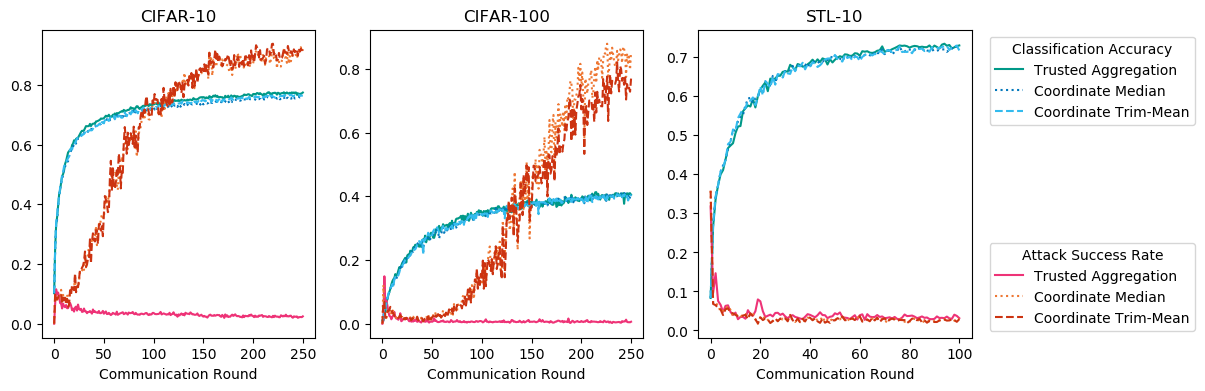
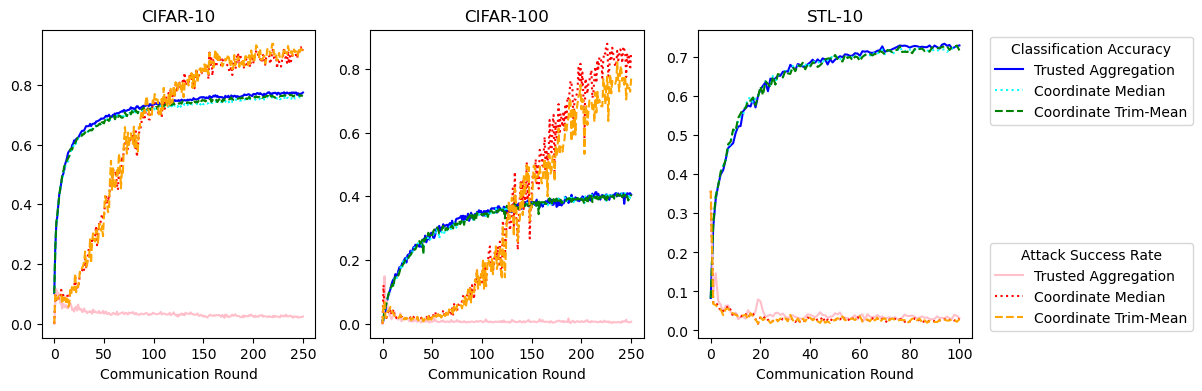
update visual colors to yao suggested

diff --git a/make_article/make_visuals/exp_accuracy_v2.py b/make_article/make_visuals/exp_accuracy_v2.py
@@ -61,6 +61,15 @@ def main():
     file_suffices = ('', f'--beta{args.beta}', '')
 
     line_styles = ['solid', 'dotted', 'dashed']
+    warm_colors = ['pink', 'red', 'orange']
+    cool_colors = ['blue', 'cyan', 'green']
+
+    """
+    # scale RGB between 0-1
+    for i, (wc, cc) in enumerate(zip(warm_colors, cool_colors)):
+        warm_colors[i] = [x / 255 for x in wc]
+        cool_colors[i] = [x / 255 for x in cc]
+
     warm_colors = [
         (238 / 255, 51 / 255, 119 / 255),
         (238 / 255, 119 / 255, 51 / 255),
@@ -71,6 +80,7 @@ def main():
         (0 / 255, 119 / 255, 187 / 255),
         (51 / 255, 187 / 255, 238 / 255)
     ]
+    """
 
     out_path = './visuals'
     if not os.path.exists('./visuals'):

diff --git a/make_article/make_visuals/exp_threshold.py b/make_article/make_visuals/exp_threshold.py
@@ -21,9 +21,9 @@ def get_args():
 
     # path
     parser.add_argument('--data', default='cifar', type=str)
-    parser.add_argument('--n_classes', default=100, type=int)
+    parser.add_argument('--n_classes', default=10, type=int)
 
-    parser.add_argument('--n_rounds', default=100, type=int)
+    parser.add_argument('--n_rounds', default=250, type=int)
     parser.add_argument('--m_start', default=1, type=int)
 
     parser.add_argument('--n_malicious', default=1, type=int)
